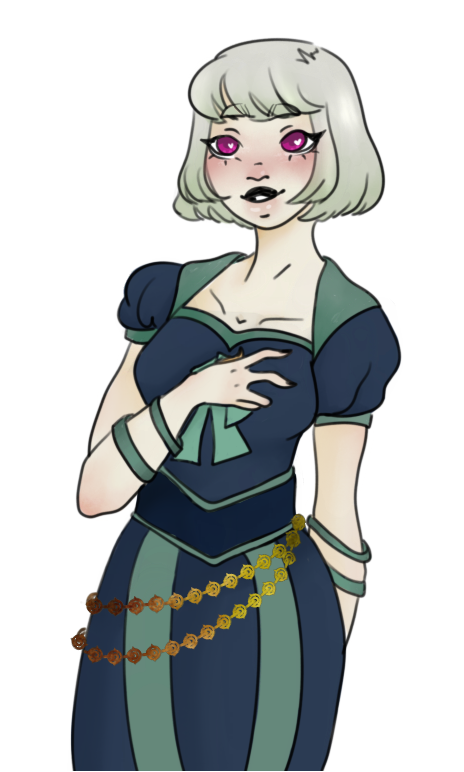
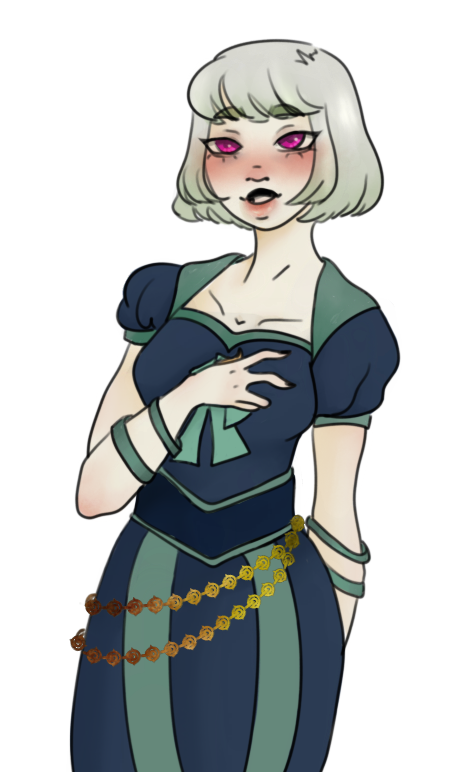
Add files via upload

diff --git a/data/16EB352C7025924A5B7A37761BC1DD183AF4.json.js b/data/16EB352C7025924A5B7A37761BC1DD183AF4.json.js
@@ -1,10 +1,11 @@
 GS.dataCache['16EB352C7025924A5B7A37761BC1DD183AF4'] = {
     "uid": "16EB352C7025924A5B7A37761BC1DD183AF4",
     "isLoaded": true,
-    "lastModificationTime": null,
+    "lastModificationTime": 0,
     "items": {
         "name": "blushtobi",
         "type": "data_record",
+        "order": 2,
         "category": "characterExpressions",
         "id": "16EB352C7025924A5B7A37761BC1DD183AF4",
         "isFolder": false,
@@ -16,12 +17,21 @@ GS.dataCache['16EB352C7025924A5B7A37761BC1DD183AF4'] = {
             },
             "name": "blushtobi",
             "idleSpeed": 100,
-            "idle": [],
+            "idle": [
+                {
+                    "resource": {
+                        "name": "tobiasblush",
+                        "hue": 0,
+                        "opacity": 255,
+                        "blending": 0,
+                        "tone": null
+                    }
+                }
+            ],
             "talkingSpeed": 100,
             "talking": [],
             "index": "16EB352C7025924A5B7A37761BC1DD183AF4"
-        },
-        "order": 2
+        }
     },
     "summary": [
         "name",

diff --git a/data/1414C2F80612C54F580B8768617ABC5F4546.json.js b/data/1414C2F80612C54F580B8768617ABC5F4546.json.js
@@ -789,7 +789,7 @@ GS.dataCache['1414C2F80612C54F580B8768617ABC5F4546'] = {
                 "params": {
                     "waitForCompletion": 1,
                     "duration": 15,
-                    "expressionId": null,
+                    "expressionId": "56C84B8B6A24324076493501ADC7CE86066B",
                     "custom": {
                         "object": {
                             "x": 0,
@@ -822,7 +822,7 @@ GS.dataCache['1414C2F80612C54F580B8768617ABC5F4546'] = {
                 "params": {
                     "waitForCompletion": 1,
                     "duration": 15,
-                    "expressionId": null,
+                    "expressionId": "0C6ACF9F3563B44BB249C4E31E3A64C700D4",
                     "custom": {
                         "object": {
                             "x": 0,
